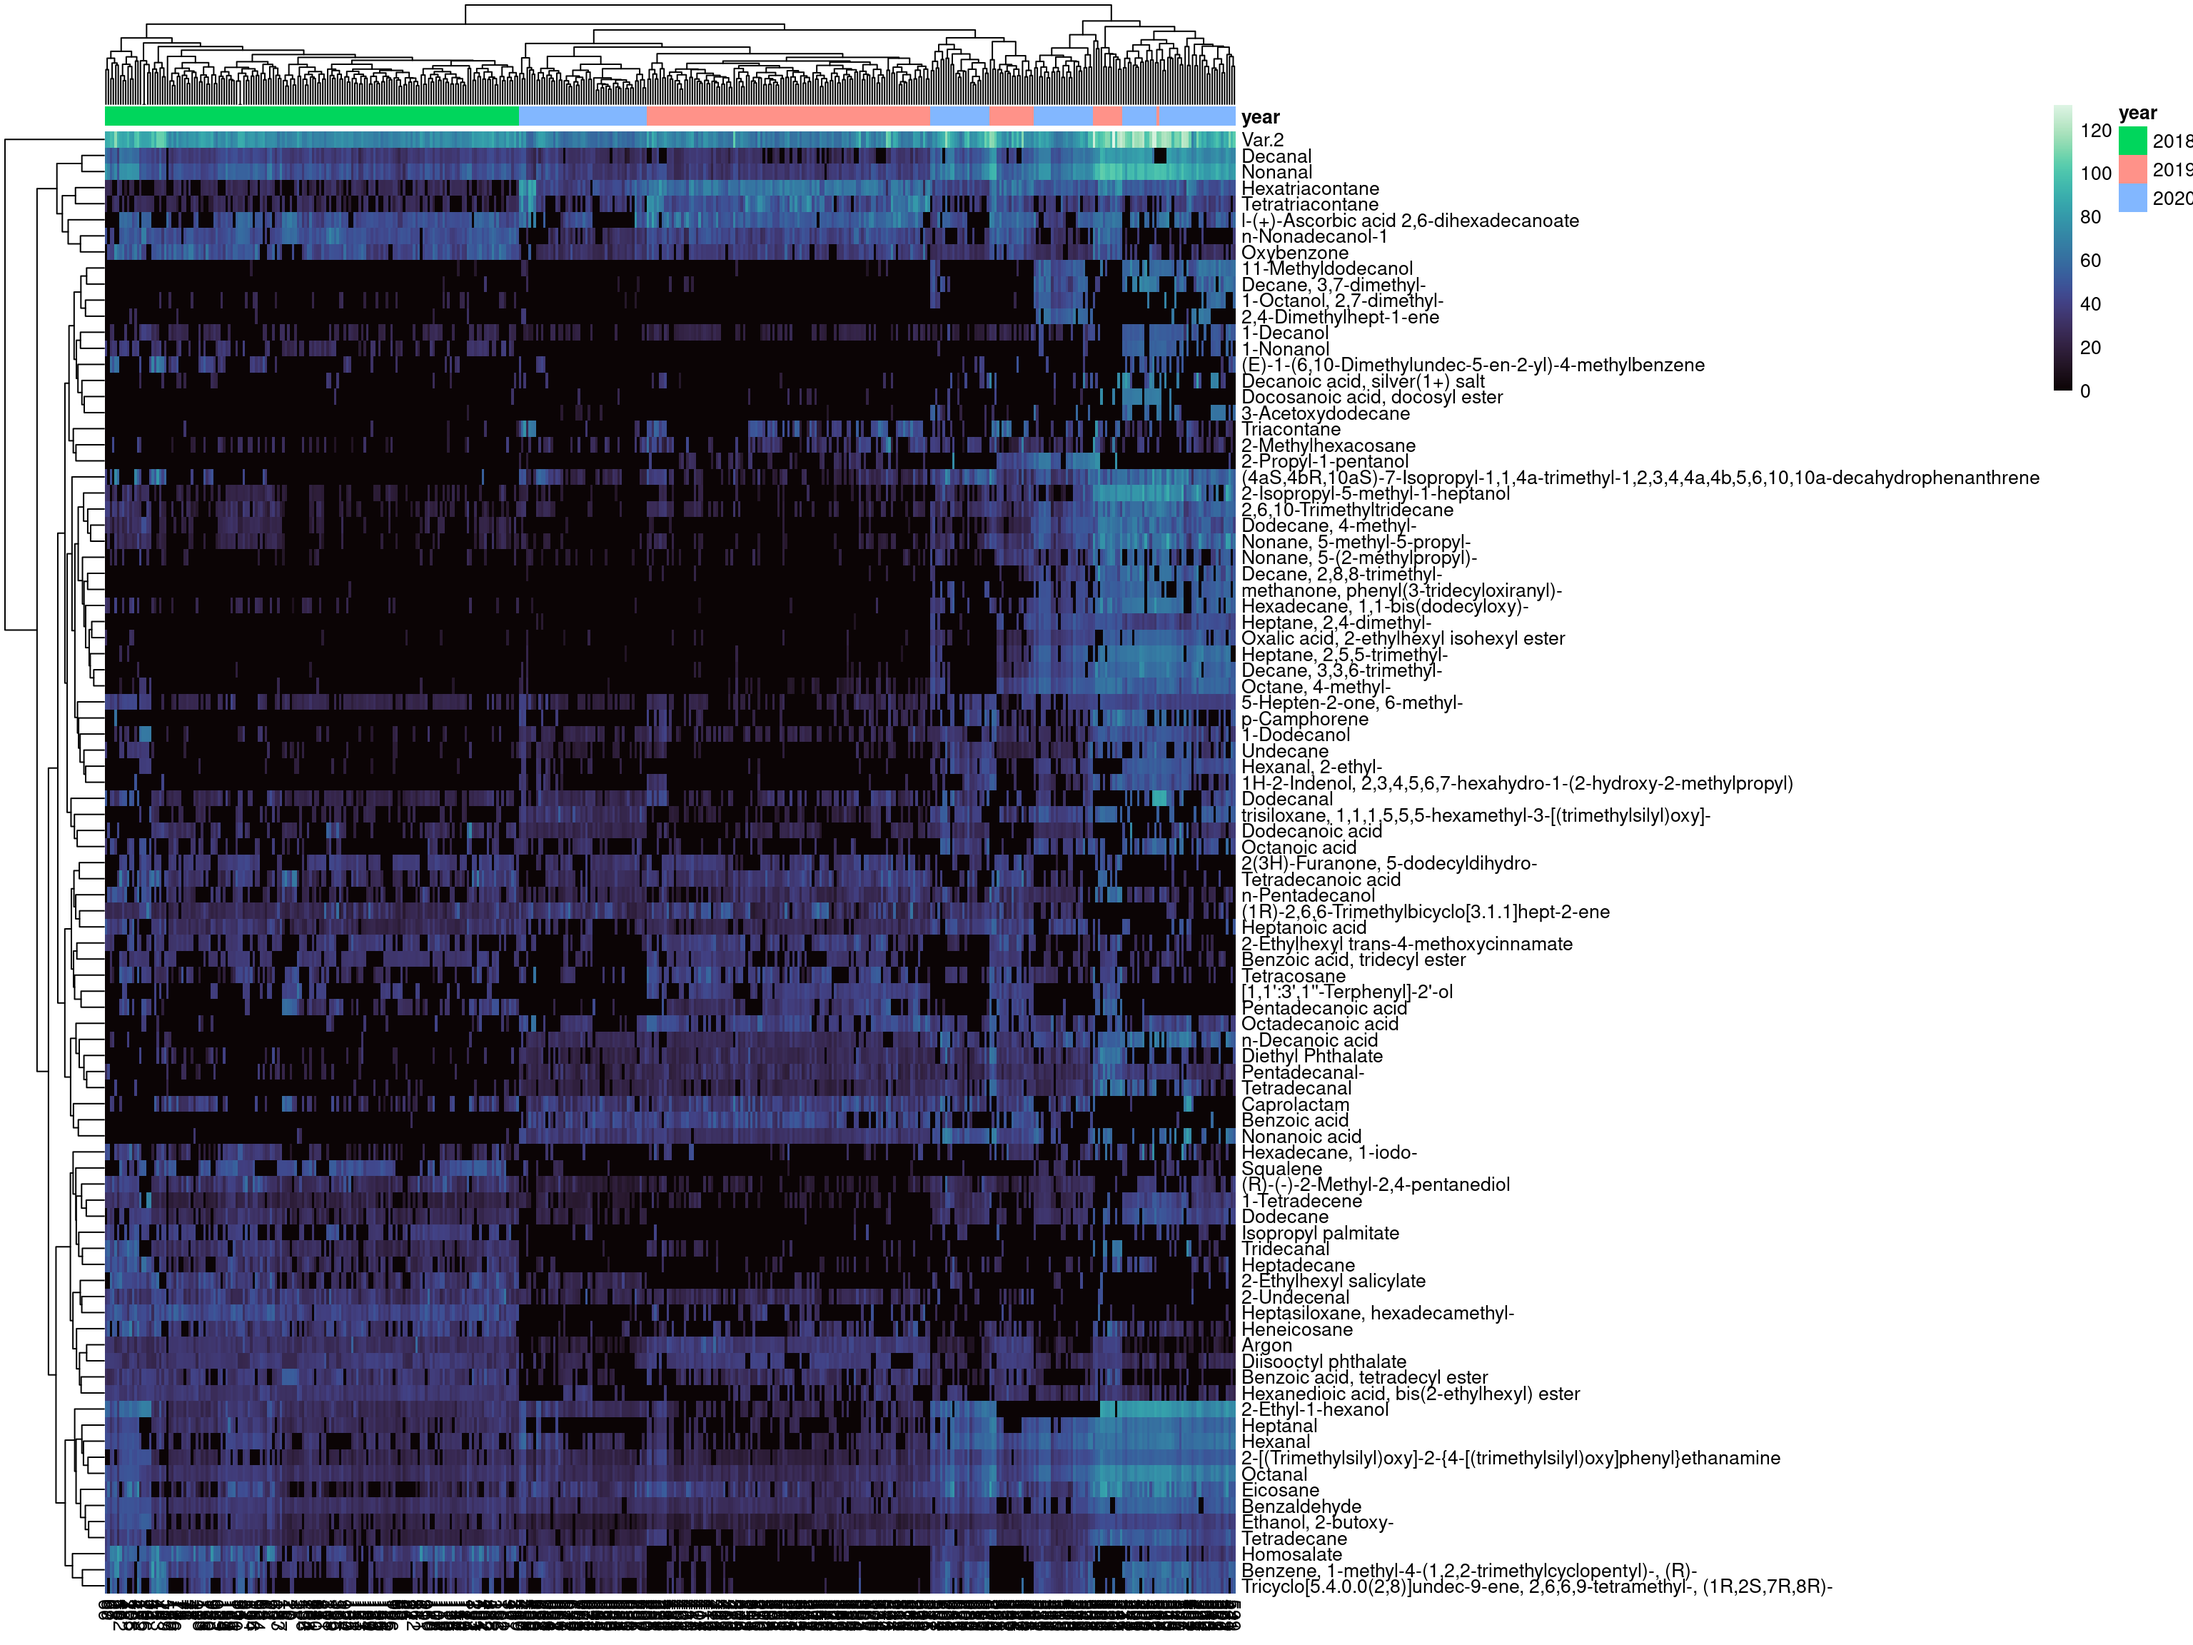
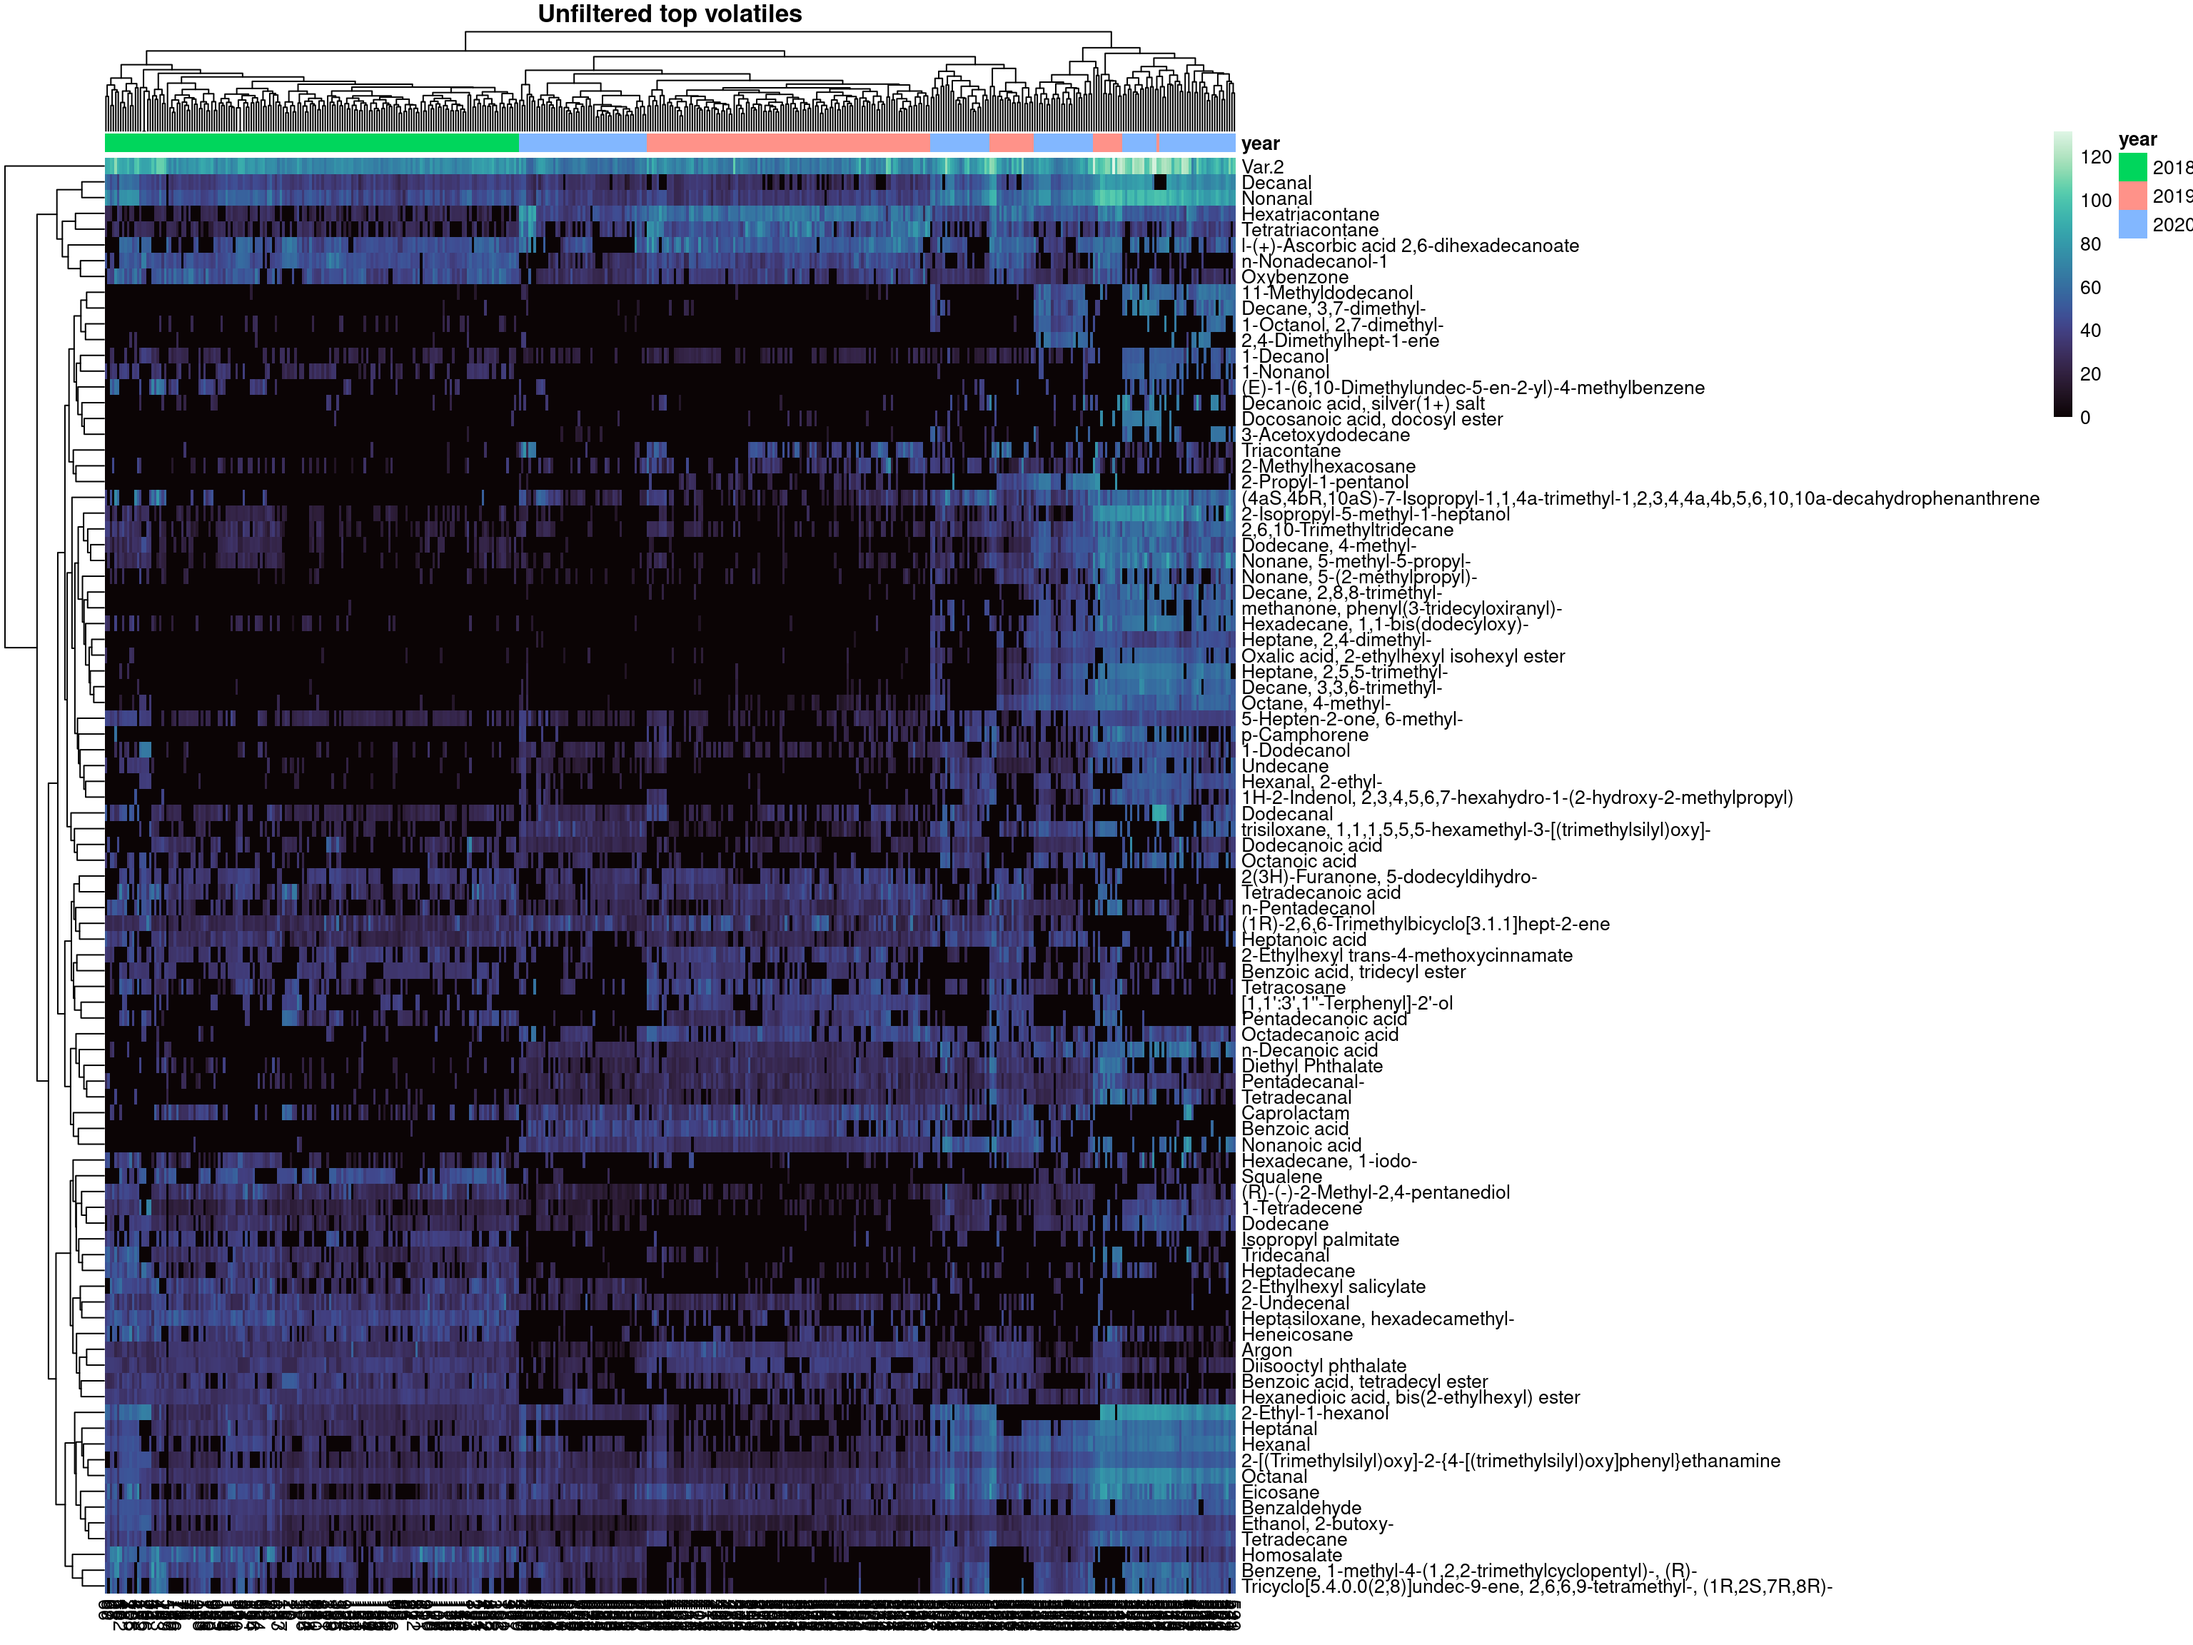
Heatmap titles

Changed region(s): [[0.0312, 0.0, 0.9375, 0.9375], [0.9375, 0.0625, 1.0, 0.25]]

diff --git a/maxfield_volatiles2020.html b/maxfield_volatiles2020.html
@@ -516,10 +516,10 @@ ipochems %&gt;% select(verdict, name, RT, mean, max, match, freq.floral, freq.am
 <div id="heatmap" class="section level2">
 <h2>Heatmap</h2>
 <pre class="r"><code>pheatmap(as.matrix(t(vols[,colSums(vols)&gt;3e8]))^(1/4), color=mako(512),
-         annotation_col=volsmeta %&gt;% select(year))</code></pre>
+         annotation_col=volsmeta %&gt;% select(year), main=&quot;Unfiltered top volatiles&quot;)</code></pre>
 <p><img src="images_volatiles2020/heatmap-1.png" width="1536" /></p>
 <pre class="r"><code>pheatmap(as.matrix(t(vols.good))^(1/4), color=mako(512),
-         annotation_col=volsmeta %&gt;% select(year))</code></pre>
+         annotation_col=volsmeta %&gt;% select(year), main=&quot;Filtered volatiles&quot;)</code></pre>
 <p><img src="images_volatiles2020/heatmap-2.png" width="1536" /></p>
 </div>
 <div id="boxplots" class="section level2">
